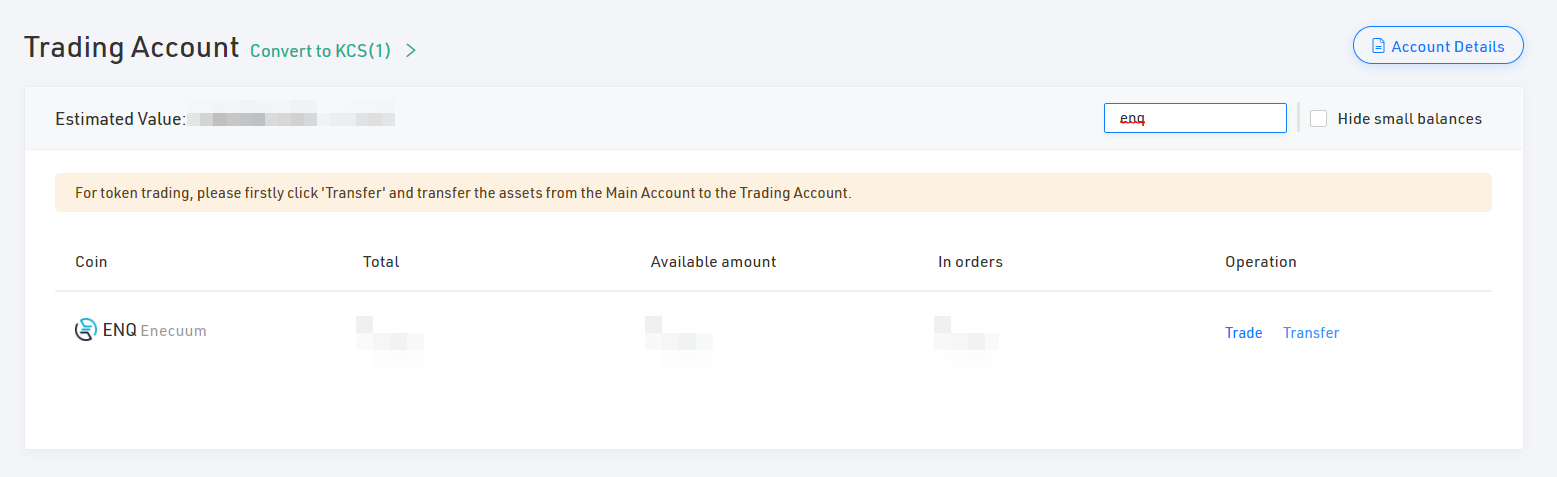
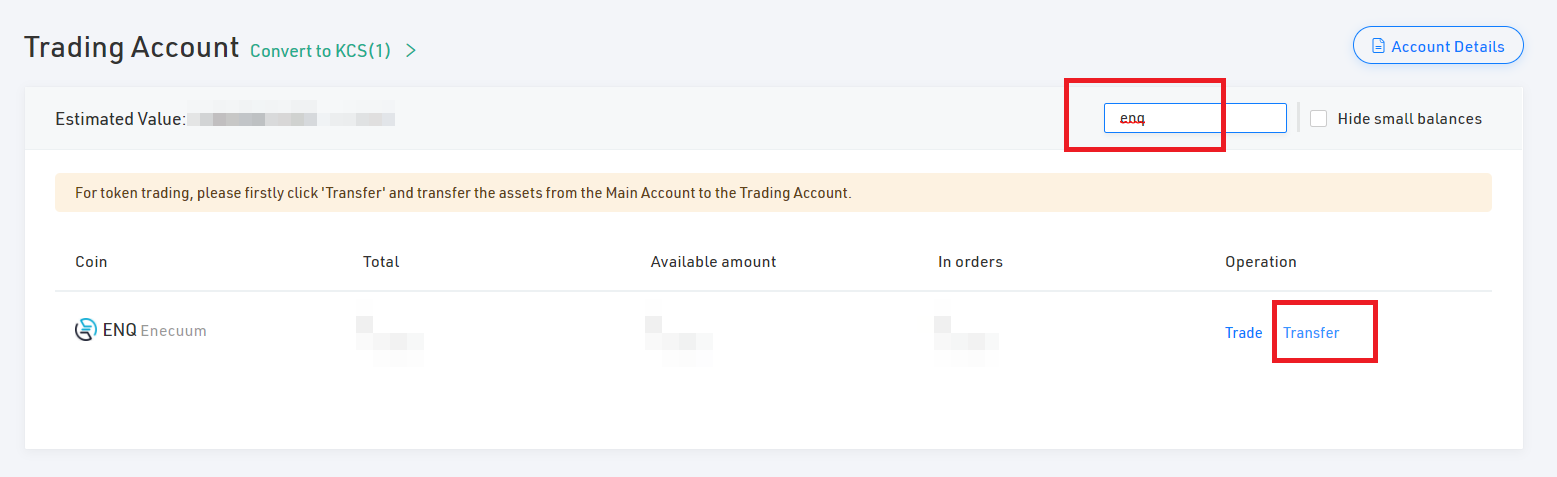
[NT-385] Update figures

Changed region(s): [[0.6782, 0.1468, 0.8015, 0.3229], [0.8015, 0.6164, 0.894, 0.7631]]

diff --git a/ru/enq/how-to-buy.md b/ru/enq/how-to-buy.md
@@ -51,7 +51,7 @@ ENQ доступен на [нескольких биржах](https://enecuum.co
 	
 	<p align = "center"> <img src="./img/how-to-buy/4d.png"> </p>
 	   
-5. Переведите ENQ на основной аккаунта.
+5. Переведите ENQ на основной аккаунт.
 
 	a. Перейдите в Активы -> Торговый аккаунт.
 	
@@ -73,7 +73,7 @@ ENQ доступен на [нескольких биржах](https://enecuum.co
 	   
 	b. Найдите ENQ. Нажмите «Вывод».
 	
-	<p align = "center"> <img src="./img/how-to-buy/6b.png"> </p>
+	<p align = "center"> <img src="./img/how-to-buy/deposit2.png"> </p>
 	   
 	c. Заполните форму. Используйте свой открытый ключ (адрес) ENQ. Обратите внимание на комиссию за вывод средств.
 	

diff --git a/enq/how-to-buy.md b/enq/how-to-buy.md
@@ -89,13 +89,13 @@ You need cryptocurrency to buy ENQ. If you already have BTC or USDT, skip to ste
 
 2. Search for ENQ. Click "Deposit".
 
-<p align = "center"> <img src="./img/how-to-buy/6b.png"> </p>
+<p align = "center"> <img src="./img/how-to-buy/deposit2.png"> </p>
 
 3. Copy the deposit address.
 
 <p align = "center"> <img src="./img/how-to-buy/deposit3.png" width = "500"> </p>
 
-4. Transfer ENQ from your Enecuum wallet to the copied address. You can do that via [web wallet](https://wallet.enecuum.com/) or [via Enecuum app](https://app.enecuum.com/).
+4. Transfer ENQ from your Enecuum wallet to the copied address. You can do that via [web wallet](https://wallet.enecuum.com/) or via [Enecuum app](https://app.enecuum.com/).
 
 <p align = "center"> <img src="./img/how-to-buy/deposit4.png"> </p>
 

diff --git a/ko/enq/how-to-buy.md b/ko/enq/how-to-buy.md
@@ -89,13 +89,13 @@ You need cryptocurrency to buy ENQ. If you already have BTC or USDT, skip to ste
 
 2. Search for ENQ. Click "Deposit".
 
-<p align = "center"> <img src="./img/how-to-buy/6b.png"> </p>
+<p align = "center"> <img src="./img/how-to-buy/deposit2.png"> </p>
 
 3. Copy the deposit address.
 
 <p align = "center"> <img src="./img/how-to-buy/deposit3.png" width = "500"> </p>
 
-4. Transfer ENQ from your Enecuum wallet to the copied address. You can do that via [web wallet](https://wallet.enecuum.com/) or [via Enecuum app](https://app.enecuum.com/).
+4. Transfer ENQ from your Enecuum wallet to the copied address. You can do that via [web wallet](https://wallet.enecuum.com/) or via [Enecuum app](https://app.enecuum.com/).
 
 <p align = "center"> <img src="./img/how-to-buy/deposit4.png"> </p>
 
